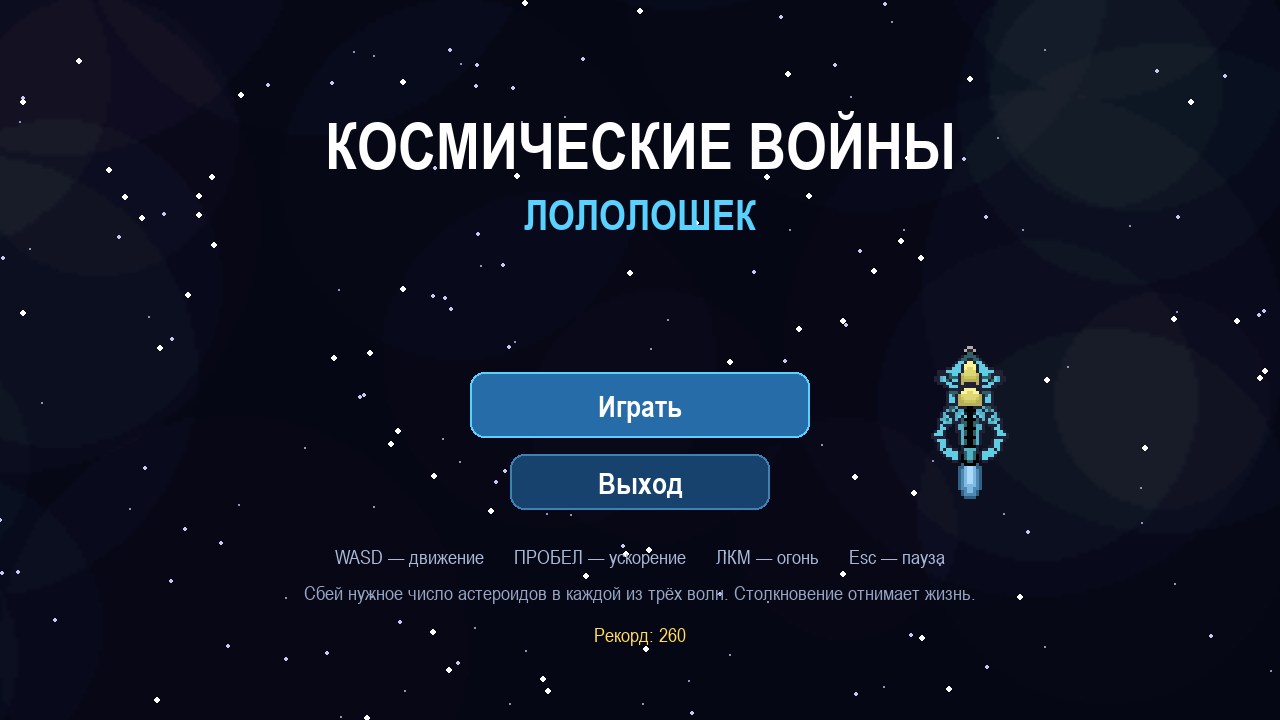
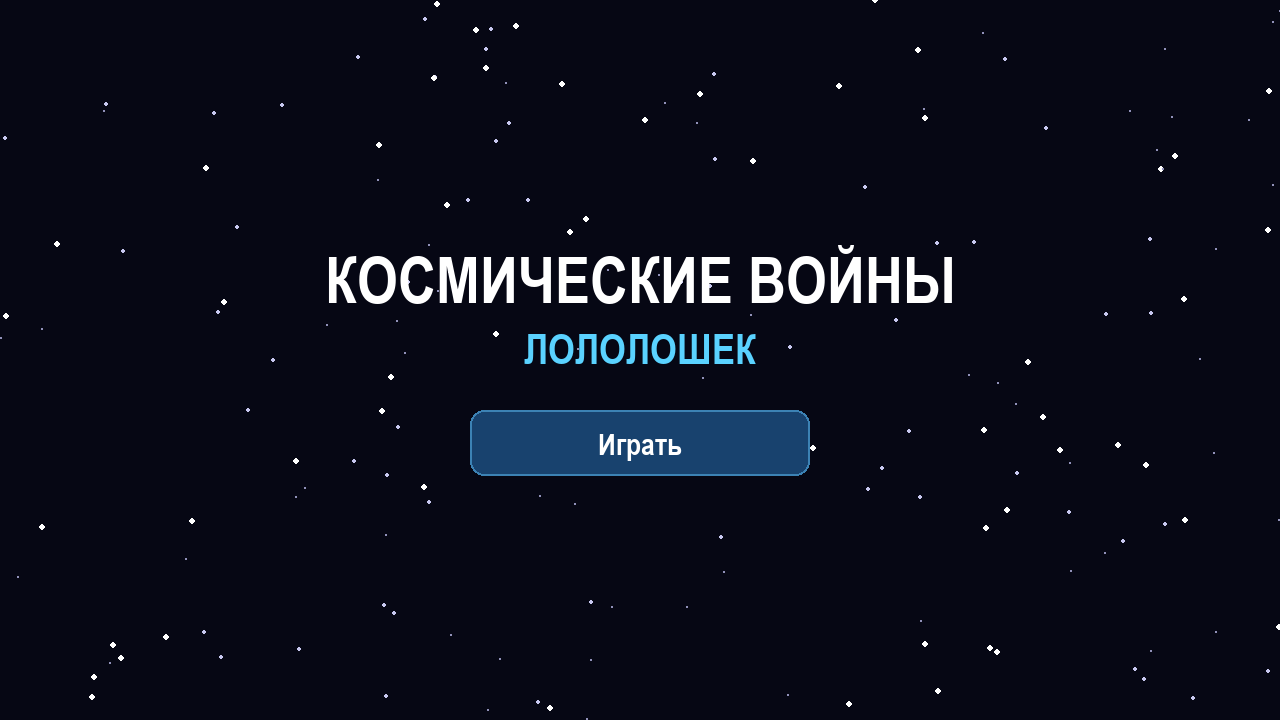
Упростить фон и главное меню до кнопки «Играть»
Убраны туманность на фоне, подсказки, рекорд, декоративный корабль и кнопка «Выход»: меню показывает только название и одну кнопку. Документация и скриншот меню обновлены.

🤖 Generated with Codebuff

diff --git a/main.py b/main.py
@@ -85,27 +85,8 @@ font_small = make_font(20)
 
 
 # ----------------------------------------------------------------------
-#  Фон: туманность рисуется один раз при запуске
+#  Фон: тёмный космос и падающие звёзды
 # ----------------------------------------------------------------------
-def make_nebula():
-    # рисуем в маленьком размере, а потом растягиваем — так круги размываются
-    small = pg.Surface((WIDTH // 4, HEIGHT // 4), pg.SRCALPHA)
-    colors = [(32, 58, 120), (62, 34, 104), (18, 74, 118)]
-    for i in range(34):
-        radius = random.randint(26, 64)
-        blob = pg.Surface((radius * 2, radius * 2), pg.SRCALPHA)
-        color = random.choice(colors)
-        for step in range(5):
-            r = int(radius * (1 - step / 6))
-            pg.draw.circle(blob, (color[0], color[1], color[2], 9), (radius, radius), r)
-        x = random.randint(-60, small.get_width()) - radius
-        y = random.randint(-60, small.get_height()) - radius
-        small.blit(blob, (x, y), special_flags=pg.BLEND_RGBA_ADD)
-    nebula = pg.transform.smoothscale(small, (WIDTH, HEIGHT))
-    nebula.set_alpha(120)
-    return nebula
-
-
 def make_stars():
     stars = []
     for i in range(180):
@@ -125,7 +106,6 @@ def update_stars(dt):
 
 background = pg.Surface((WIDTH, HEIGHT)).convert()
 background.fill((6, 7, 20))
-background.blit(make_nebula(), (0, 0))
 stars = make_stars()
 
 
@@ -172,8 +152,7 @@ invuln_timer = 0.0
 flash_timer = 0.0
 wave_banner = 0.0
 
-play_rect = pg.Rect(WIDTH // 2 - 170, 372, 340, 66)
-exit_rect = pg.Rect(WIDTH // 2 - 130, 454, 260, 56)
+play_rect = pg.Rect(WIDTH // 2 - 170, 410, 340, 66)
 
 resume_rect = pg.Rect(WIDTH // 2 - 170, 360, 340, 64)
 pause_menu_rect = pg.Rect(WIDTH // 2 - 170, 442, 340, 64)
@@ -458,34 +437,12 @@ def draw_dark_overlay():
 
 def draw_menu(mouse_pos):
     title = font_title.render("КОСМИЧЕСКИЕ ВОЙНЫ", True, WHITE)
-    screen.blit(title, title.get_rect(center=(WIDTH // 2, 146)))
+    screen.blit(title, title.get_rect(center=(WIDTH // 2, 280)))
 
     subtitle = font_big.render("ЛОЛОЛОШЕК", True, CYAN)
-    screen.blit(subtitle, subtitle.get_rect(center=(WIDTH // 2, 214)))
+    screen.blit(subtitle, subtitle.get_rect(center=(WIDTH // 2, 348)))
 
     draw_button("Играть", play_rect, mouse_pos)
-    draw_button("Выход", exit_rect, mouse_pos)
-
-    hint = font_small.render(
-        "WASD — движение      ПРОБЕЛ — ускорение      ЛКМ — огонь      Esc — пауза",
-        True,
-        (170, 185, 215),
-    )
-    screen.blit(hint, hint.get_rect(center=(WIDTH // 2, 556)))
-
-    rule = font_small.render(
-        "Сбей нужное число астероидов в каждой из трёх волн. Столкновение отнимает жизнь.",
-        True,
-        TEXT_DIM,
-    )
-    screen.blit(rule, rule.get_rect(center=(WIDTH // 2, 592)))
-
-    rec = font_small.render("Рекорд: " + str(record), True, YELLOW)
-    screen.blit(rec, rec.get_rect(center=(WIDTH // 2, 634)))
-
-    bob = math.sin(pg.time.get_ticks() / 400) * 10
-    ship = pg.transform.scale(ships_1[2], (96, 192))
-    screen.blit(ship, ship.get_rect(center=(WIDTH // 2 + 330, 400 + bob)))
 
 
 def draw_pause(mouse_pos):
@@ -555,8 +512,6 @@ def main():
                     if play_rect.collidepoint(event.pos):
                         reset_game()
                         state = "playing"
-                    elif exit_rect.collidepoint(event.pos):
-                        running = False
 
             draw_background()
             draw_menu(mouse_pos)

diff --git a/docs/03-gameplay.md b/docs/03-gameplay.md
@@ -65,12 +65,11 @@
 - Максимум за игру: (7 + 9 + 11) × 10 = **270 очков**.
 - Если результат больше сохранённого рекорда, он записывается в файл `record.txt`
   рядом с `main.py`. Файл создаётся автоматически, поэтому его нет в репозитории.
-- Рекорд виден в главном меню, в панели во время игры и на экране результата.
+- Рекорд виден в панели во время игры и на экране результата.
 
 ## Экраны игры
 
-1. **Главное меню** — название, кнопки «Играть» и «Выход», подсказка по управлению,
-   текущий рекорд и покачивающийся корабль.
+1. **Главное меню** — название, одна кнопка «Играть» (выход из игры — Esc).
 2. **Игра** — панель с очками, рекордом, номером волны, счётчиком сбитых и жизнями.
 3. **Пауза** — затемнение, кнопки «Продолжить» и «В меню».
 4. **Победа** — «ПОБЕДА!», очки, рекорд, кнопки «Играть снова» и «В меню».

diff --git a/docs/07-testing.md b/docs/07-testing.md
@@ -28,7 +28,7 @@
 ### 7.2 Проверка кнопок и клавиш
 
 События нажатий отправлялись в настоящий главный цикл `main()`.
-Сценарий: «Играть» → `Esc` → «Продолжить» → `Esc` → «В меню» → «Выход».
+Сценарий: «Играть» → `Esc` → «Продолжить» → `Esc` → «В меню» → `Esc`.
 
 Полученная цепочка состояний:
 
@@ -36,7 +36,9 @@
 menu → playing → paused → playing → paused → menu
 ```
 
-Игра корректно закрылась по кнопке «Выход» за 2,9 секунды. Все кнопки срабатывают.
+Игра закрывается по `Esc` прямо из меню — отдельной кнопки «Выход» в меню нет,
+как и подсказок с рекордом: на экране остались название и одна кнопка «Играть».
+Все кнопки, которые есть на экранах, срабатывают.
 
 ### 7.3 Проверка изображений
 

diff --git a/README.md b/README.md
@@ -8,7 +8,7 @@
 
 ## Возможности
 
-- главное меню с кнопками «Играть» и «Выход»;
+- главное меню с одной кнопкой «Играть» (выход по Esc);
 - управление кораблём на WASD, ускорение на пробел, стрельба левой кнопкой мыши;
 - астероиды выдерживают три попадания и меняют вид: целый → треснутый → обломки;
 - три волны с растущей сложностью;
